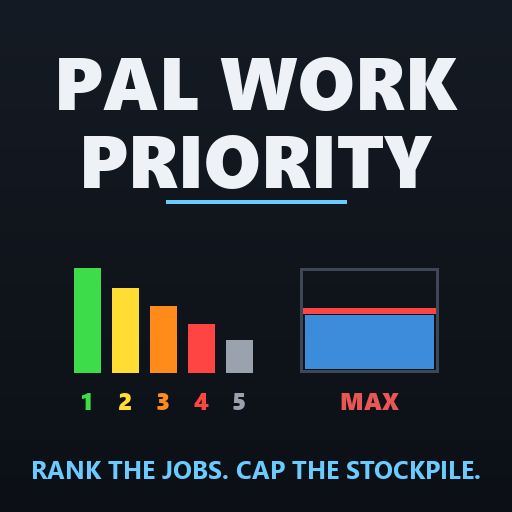
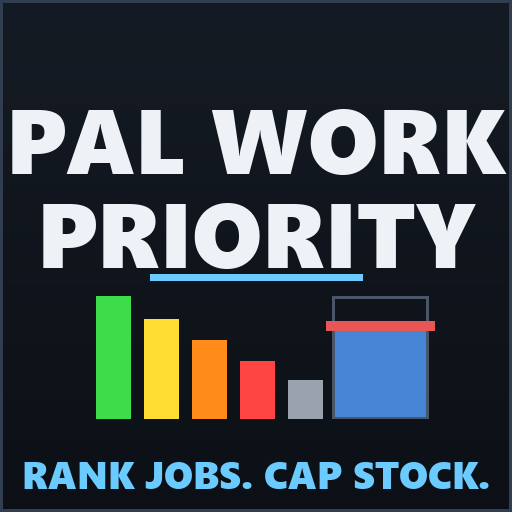
Rebuild the thumbnail for the size it is actually seen at
Measured on the previous version scaled to Steam's browse size: the
tagline resolved to 5.3px of cap height and the 1-5 numerals to 5.0px.
Both were reasoning that held at 512 and collapsed at 150, which is where
almost every viewer meets this tile. Adding those numerals was my own
change earlier today, argued as teaching the mod's colour scale - true,
and useless at the size it had to survive.

So: the name, the ladder as a SHAPE rather than five labelled bars, and
four words. The numerals are gone, since the descending heights and the
green-to-grey already say it. The ceiling line on the stockpile went from
3px to 9px, because it was the one mark carrying the whole right-hand
idea and it vanished first. Dead space closed, which let the title grow
about 25%. A border, because Steam's browse page is dark and so is this,
so without an edge the tile has no silhouette.

The critical content now sits inside the middle 60% vertically: Workshop
grids are wider than tall, so a square gets centre-cropped, and the old
layout ran edge to edge.

The square tile cannot be set from the web UI - owner controls only offer
screenshots and video - so this ships with the pak re-upload.

diff --git a/tools/make_thumbnail.py b/tools/make_thumbnail.py
@@ -55,64 +55,60 @@ def centre(text, f, y, fill):
     d.text(((S - w) / 2, y), text, font=f, fill=fill)
 
 
-title = font("seguibl.ttf", 74)
-centre("PAL WORK", title, 30, WHITE)
-centre("PRIORITY", title, 108, WHITE)
+# ---------------------------------------------------------------------------
+# Laid out for 150 pixels, not for 512.
+#
+# Measured on the previous version at Steam's browse size: the tagline came out
+# at 5.3px of cap height and the 1-5 numerals at 5.0px. Both were reasoning that
+# held at full size and collapsed at the size the tile is actually seen. Steam
+# shows this in a grid; almost nobody ever looks at it at 512.
+#
+# So: three elements, all of which survive a fifth-scale. The name, the coloured
+# ladder as a SHAPE rather than as five labelled bars, and four words.
+#
+# The critical content also sits inside the middle 60% vertically, because
+# Workshop grids are wider than tall and a square gets centre-cropped.
+# ---------------------------------------------------------------------------
 
-# a hairline under the title, the same accent the panel uses for selection
-d.rectangle([166, 200, S - 166, 203], fill=CYAN)
+title = font("seguibl.ttf", 92)
+centre("PAL WORK", title, 74, WHITE)
+centre("PRIORITY", title, 168, WHITE)
 
-# ---- left symbol: ranked jobs, descending bars ----
-lx, base_y = 74, 372
-bw, gap = 26, 12
-heights = [104, 84, 66, 48, 32]
+# The accent rule, thicker so it is still a line and not a grey artefact.
+d.rectangle([150, 274, S - 150, 280], fill=CYAN)
+
+# ---- left: the priority ladder, as a shape ----
+#
+# No numerals. They were 17px and said nothing the descending heights and the
+# mod's own green-to-grey scale do not already say, and they were the first
+# thing to disappear when the tile was scaled.
+lx, base_y = 96, 418
+bw, gap = 34, 14
+heights = [122, 99, 78, 57, 38]
 for i, (h, col) in enumerate(zip(heights, BARS)):
     x = lx + i * (bw + gap)
     d.rectangle([x, base_y - h, x + bw, base_y], fill=col)
 
-# ---- right symbol: a stockpile filled to its limit ----
-rx0, rx1 = 300, 438
-top, bot = base_y - 104, base_y
-d.rectangle([rx0, top, rx1, bot], outline=(60, 72, 88), width=3)
+# ---- right: a stockpile against its ceiling ----
+rx0, rx1 = 332, 428
+top, bot = base_y - 122, base_y
+d.rectangle([rx0, top, rx1, bot], outline=(72, 86, 104), width=3)
 
-# Contents up to the line, with air above so the line reads as a lid the
-# stack has met rather than something drawn through it. The first version ran
-# the rule past both edges of the box, which read as a strikethrough.
-fill_top = top + 40
-d.rectangle([rx0 + 5, fill_top + 7, rx1 - 5, bot - 4], fill=(61, 140, 220))
-d.rectangle([rx0 + 3, fill_top, rx1 - 3, fill_top + 5], fill=(255, 68, 68))
+fill_top = top + 34
+d.rectangle([rx0 + 3, fill_top, rx1 - 3, bot - 2], fill=(70, 132, 214))
 
-# Numerals under the bars, in the bars' own colours.
-#
-# This is the mod's actual scale - 1 green through 5 grey - so the thumbnail
-# teaches the thing the panel then uses, and a reader who has seen it once
-# recognises the row of numbers on the Monitoring Stand.
-#
-# They replace the words PRIORITIES and LIMITS, which were 21pt on a 512
-# square. Steam draws this at well under half that in a browse grid, where
-# 21pt becomes about eight pixels and turns to mush. Shapes and numerals
-# survive that scale; small words do not, and the tagline underneath already
-# says which half is which.
-num = font("seguibl.ttf", 24)
-for i, col in enumerate(BARS):
-    x = lx + i * (bw + gap)
-    ch = str(i + 1)
-    cw = d.textbbox((0, 0), ch, font=num)[2]
-    d.text((x + (bw - cw) / 2, base_y + 12), ch, font=num, fill=col)
+# The ceiling line, 9px rather than 3. It was the one mark carrying the whole
+# right-hand idea and it vanished first; at this weight it reads as a lid even
+# when the box below it is a blue smudge.
+d.rectangle([rx0 - 6, fill_top - 9, rx1 + 6, fill_top], fill=(232, 86, 86))
 
-# A red lid on the stockpile, echoed as the one number that is not a rank:
-# the limit. Same weight as the numerals opposite so the two symbols read as
-# a pair rather than as a chart beside a diagram.
-cap = font("seguibl.ttf", 24)
-cw = d.textbbox((0, 0), "MAX", font=cap)[2]
-d.text((rx0 + ((rx1 - rx0) - cw) / 2, base_y + 12), "MAX",
-       font=cap, fill=(232, 86, 86))
+# ---- four words, large enough to read ----
+tag = font("seguibl.ttf", 38)
+centre("RANK JOBS. CAP STOCK.", tag, 448, CYAN)
 
-# 25pt, not 27. At 27 the line ran to within 22 pixels of both edges, which
-# reads as crowded at full size and as edge-to-edge noise once Steam scales it
-# down. This leaves a margin the eye can find the block against.
-tag = font("segoeuib.ttf", 25)
-centre("RANK THE JOBS. CAP THE STOCKPILE.", tag, 452, CYAN)
+# A silhouette. Steam's browse page is dark and so is this, so without an edge
+# the tile bleeds into the page and loses its own outline.
+d.rectangle([0, 0, S - 1, S - 1], outline=(48, 62, 80), width=3)
 
 # Written beside this script's repo rather than to an absolute path.
 #
